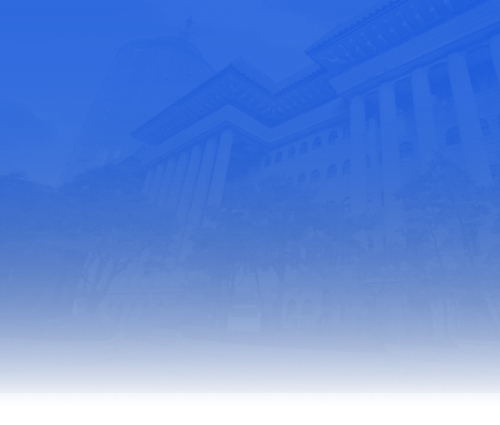
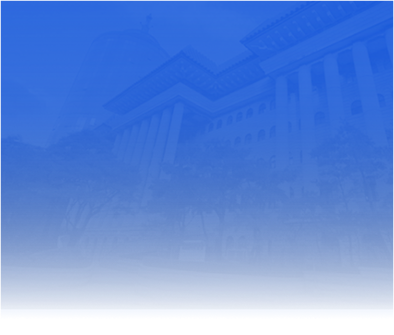
🎨 Design : 스케일 조정 가로 500 -> 가로 393px

Changed region(s): [[0.9746, 0.0, 1.0, 0.0299], [0.0, 0.0, 0.0305, 0.0299]]

diff --git a/src/components/home/index.tsx b/src/components/home/index.tsx
@@ -1,10 +1,10 @@
+import { ChildrenProp } from "@/utils/children.type";
 import Image from "next/image";
 import Link from "next/link";
-import { ReactNode } from "react";
 
 export const Home = ({ children }: ChildrenProp) => {
   return (
-    <div className="flex flex-col bg-[#F6F6F6] bg-[url('/images/home_background.png')] bg-no-repeat items-center px-[24px] h-[calc(100vh-90px)] overflow-y-auto">
+    <div className="flex box flex-col bg-[#F6F6F6] bg-[url('/images/home_background.png')] bg-no-repeat items-center px-[24px] h-[calc(100vh-75px)] overflow-y-auto">
       {children}
     </div>
   );
@@ -12,9 +12,9 @@ export const Home = ({ children }: ChildrenProp) => {
 
 const Header = () => {
   return (
-    <header className="flex flex-col leading-normal text-[#fff] w-full pt-[46px] pb-[22px] gap-[3px]">
-      <span className="text-[24px] font-bold">안녕하세요! 서경대님!</span>
-      <span className="text-[24px] font-medium">오늘도 열심히 준비해볼까요?</span>
+    <header className="flex flex-col leading-normal text-[#fff] w-full pt-[36px] pb-[21px] gap-[6px]">
+      <span className="text-[18.86px] font-bold">안녕하세요! 서경대님!</span>
+      <span className="text-[18.86px] font-medium">오늘도 열심히 준비해볼까요?</span>
     </header>
   );
 };
@@ -27,23 +27,26 @@ const TimeTable = ({ children }: ChildrenProp) => {
   }요일`;
 
   return (
-    <div className="flex w-full p-[24px] bg-[#FFF] flex-col border-[0.5px] border-[rgba(228, 228, 228, 1)] rounded-[15px] shadow-[0_4px_8.2px_0px_rgba(77,102,236,0.08)]">
-      <span className="text-[12px] leading-normal text-[#75869B] ml-[40px]">{today}</span>
-      <div className="flex items-center gap-[7px] text-[20px]">
-        <Image src="/images/sound-speaker.svg" width={30} height={30} alt="사운드 스피커" />
+    <div className="flex w-full p-[18px] bg-[#FFF] flex-col border-[0.5px] border-[rgba(228, 228, 228, 1)] rounded-[15px] shadow-[0_4px_8.2px_0px_rgba(77,102,236,0.08)]">
+      <div className="flex items-center gap-[7px]">
+        <div className="w-[23px]" />
+        <span className="text-[9px] leading-normal text-[#75869B]">{today}</span>
+      </div>
+      <div className="flex items-center gap-[7px] text-[15.7px]">
+        <Image src="/images/sound-speaker.svg" width={23} height={23} alt="사운드 스피커" />
         <div className="leading-normal text-[#143967] font-semibold">
           <span>오늘은 </span>
           <span className="text-[#0072FF]">2개의</span>
           <span> 수업이 있어요</span>
         </div>
       </div>
-      <div className="flex flex-col gap-[10px] mt-[21px]">{children}</div>
+      <div className="flex flex-col gap-[7.8px] mt-[16.5px]">{children}</div>
       <Link
         href="#"
-        className="flex justify-end items-center gap-[3px] w-full text-end text-[12px] mt-[11px] opacity-56 text-[#75869B]"
+        className="flex justify-end items-center gap-[3px] w-full text-end text-[9px] mt-[9px] opacity-56 text-[#75869B]"
       >
         <span>내 시간표 확인하기</span>
-        <Image src="/images/direction.svg" alt="화살표" width={7} height={11} />
+        <Image src="/images/direction.svg" alt="화살표" width={5} height={8} />
       </Link>
     </div>
   );
@@ -51,11 +54,11 @@ const TimeTable = ({ children }: ChildrenProp) => {
 
 const Lecture = () => {
   return (
-    <div className="flex flex-col gap-[11px] w-full rounded-[10px] px-[22px] py-[15px] font-medium justify-center text-[#143967] bg-linear-[247deg,rgba(222,234,255,0.08)_-8.71%,rgba(154,191,255,0.15)_108.48%,rgba(200,217,237,0.16)]">
-      <p className="text-[14px] ">10:00 - 11:50</p>
+    <div className="flex flex-col gap-[11px] w-full rounded-[10px] px-[16px] py-[11px] font-medium justify-center text-[#143967] bg-linear-[247deg,rgba(222,234,255,0.08)_-8.71%,rgba(154,191,255,0.15)_108.48%,rgba(200,217,237,0.16)]">
+      <p className="text-[11px] ">10:00 - 11:50</p>
       <div className="flex justify-between items-end w-full">
-        <span className="text-[20px] font-semibold">World English2</span>
-        <span className="text-[14px]">은주관 505</span>
+        <span className="text-[15px] font-semibold">World English2</span>
+        <span className="text-[11px]">은주관 505</span>
       </div>
     </div>
   );
@@ -63,9 +66,9 @@ const Lecture = () => {
 
 const Tip = () => {
   return (
-    <div className="flex gap-[14.5px] w-full h-[48px] px-[22px] py-[14px] mt-[28px] mb-[18px] rounded-[12px] bg-[#E9EFF7] items-center">
-      <span className="text-[16px] font-bold">TIP !</span>
-      <span className="text-[14px]">위젯을 자유롭게 설정해봐요</span>
+    <div className="flex gap-[14.5px] w-full h-[48px] px-[17px] py-[12px] mt-[22px] mb-[14px] rounded-[12px] bg-[#E9EFF7] items-center">
+      <span className="text-[12px] font-bold">TIP !</span>
+      <span className="text-[11px]">위젯을 자유롭게 설정해봐요</span>
     </div>
   );
 };
@@ -76,15 +79,17 @@ const WidgetWrapper = ({ children }: ChildrenProp) => {
 
 const Widget = () => {
   return (
-    <div className="flex flex-col p-[22px] !bg-[white] rounded-[15px]">
-      <Link className="aspect-square" href="#">
-        <div className="flex w-full justify-between mb-[6px] text-[20px] font-semibold items-center text-[#143967]">
-          <h2>공지사항</h2>
-          <Image src="/images/direction.svg" alt="화살표" width={11} height={18} />
+    <div className="flex flex-col p-[15px] !bg-[white] rounded-[15px]">
+      <Link className="aspect-square flex flex-col justify-between" href="#">
+        <div>
+          <div className="flex w-full justify-between mb-[4.7px] text-[15.7px] font-semibold items-center text-[#143967]">
+            <h2>공지사항</h2>
+            <Image src="/images/direction.svg" alt="화살표" width={8.6} height={14} />
+          </div>
+          <p className="text-[12px] font-medium">공지사항을 빠르게 확인해보세요.</p>
         </div>
-        <p className="text-[12px] font-medium mb-[10px]">공지사항을 빠르게 확인해보세요.</p>
         <div className="flex w-full justify-end">
-          <Image src="/images/color-speaker.svg" width={45} height={45} alt="공지사항" />
+          <Image src="/images/color-speaker.svg" width={58} height={58} alt="공지사항" />
         </div>
       </Link>
     </div>
@@ -98,10 +103,6 @@ const AddWidget = () => {
     </button>
   );
 };
-
-interface ChildrenProp {
-  children: ReactNode;
-}
 
 Home.Header = Header;
 Home.TimeTable = TimeTable;

diff --git a/src/components/tabBar/Containers.tsx b/src/components/tabBar/Containers.tsx
@@ -1,12 +1,13 @@
 "use cient";
 
+import { ChildrenProp } from "@/utils/children.type";
 import Image from "next/image";
 import Link from "next/link";
-import { ReactNode, useState } from "react";
+import { useState } from "react";
 
 export const Containers = ({ children }: ChildrenProp) => {
   return (
-    <div className="flex z-10 justify-between pt-[10px] items-start h-[95px] px-[51px] fixed bottom-0 w-full shadow-[4px_0px_7px_0px_rgba(0,0,0,0.04)]">
+    <div className="flex z-10 bg-[#fff] justify-between pt-[10px] items-start h-[75px] px-[51px] fixed bottom-0 w-full shadow-[4px_0px_7px_0px_rgba(0,0,0,0.04)]">
       {children}
     </div>
   );
@@ -31,12 +32,12 @@ const Item = ({ src, alt, href, label, isActive }: ItemProps) => {
     >
       <Image
         src={src}
-        width={24}
-        height={24}
+        width={18}
+        height={18}
         alt={alt}
         className={`transition duration-200 ease-in-out ${isTouched ? "scale-140" : ""}`}
       />
-      <span className={`text-[13px] ${isActive ? "text-[#4F68E9]" : "text-[#BDBDBD]"}`}>
+      <span className={`text-[10px] ${isActive ? "text-[#4F68E9]" : "text-[#BDBDBD]"}`}>
         {label}
       </span>
     </Link>
@@ -49,10 +50,6 @@ interface ItemProps {
   href: string;
   label: string;
   isActive: boolean;
-}
-
-interface ChildrenProp {
-  children: ReactNode;
 }
 
 Containers.Item = Item;
